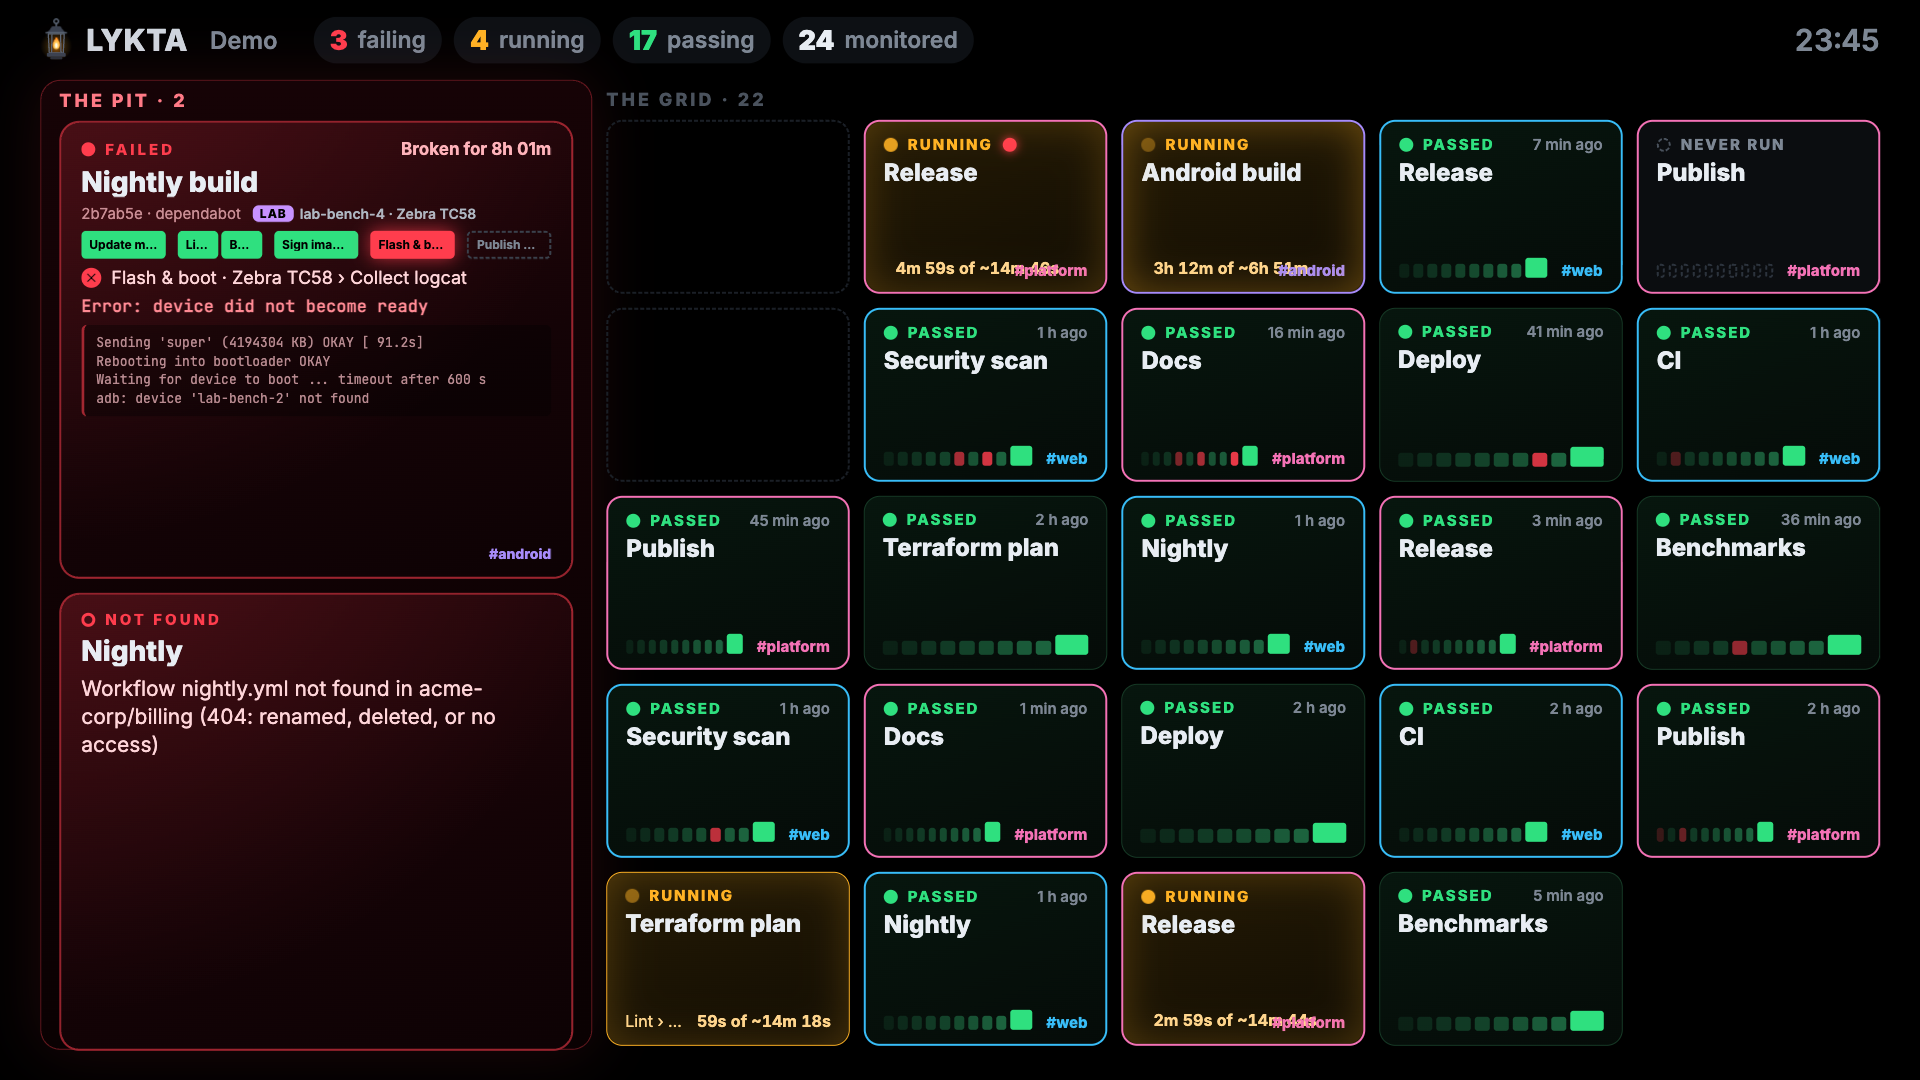
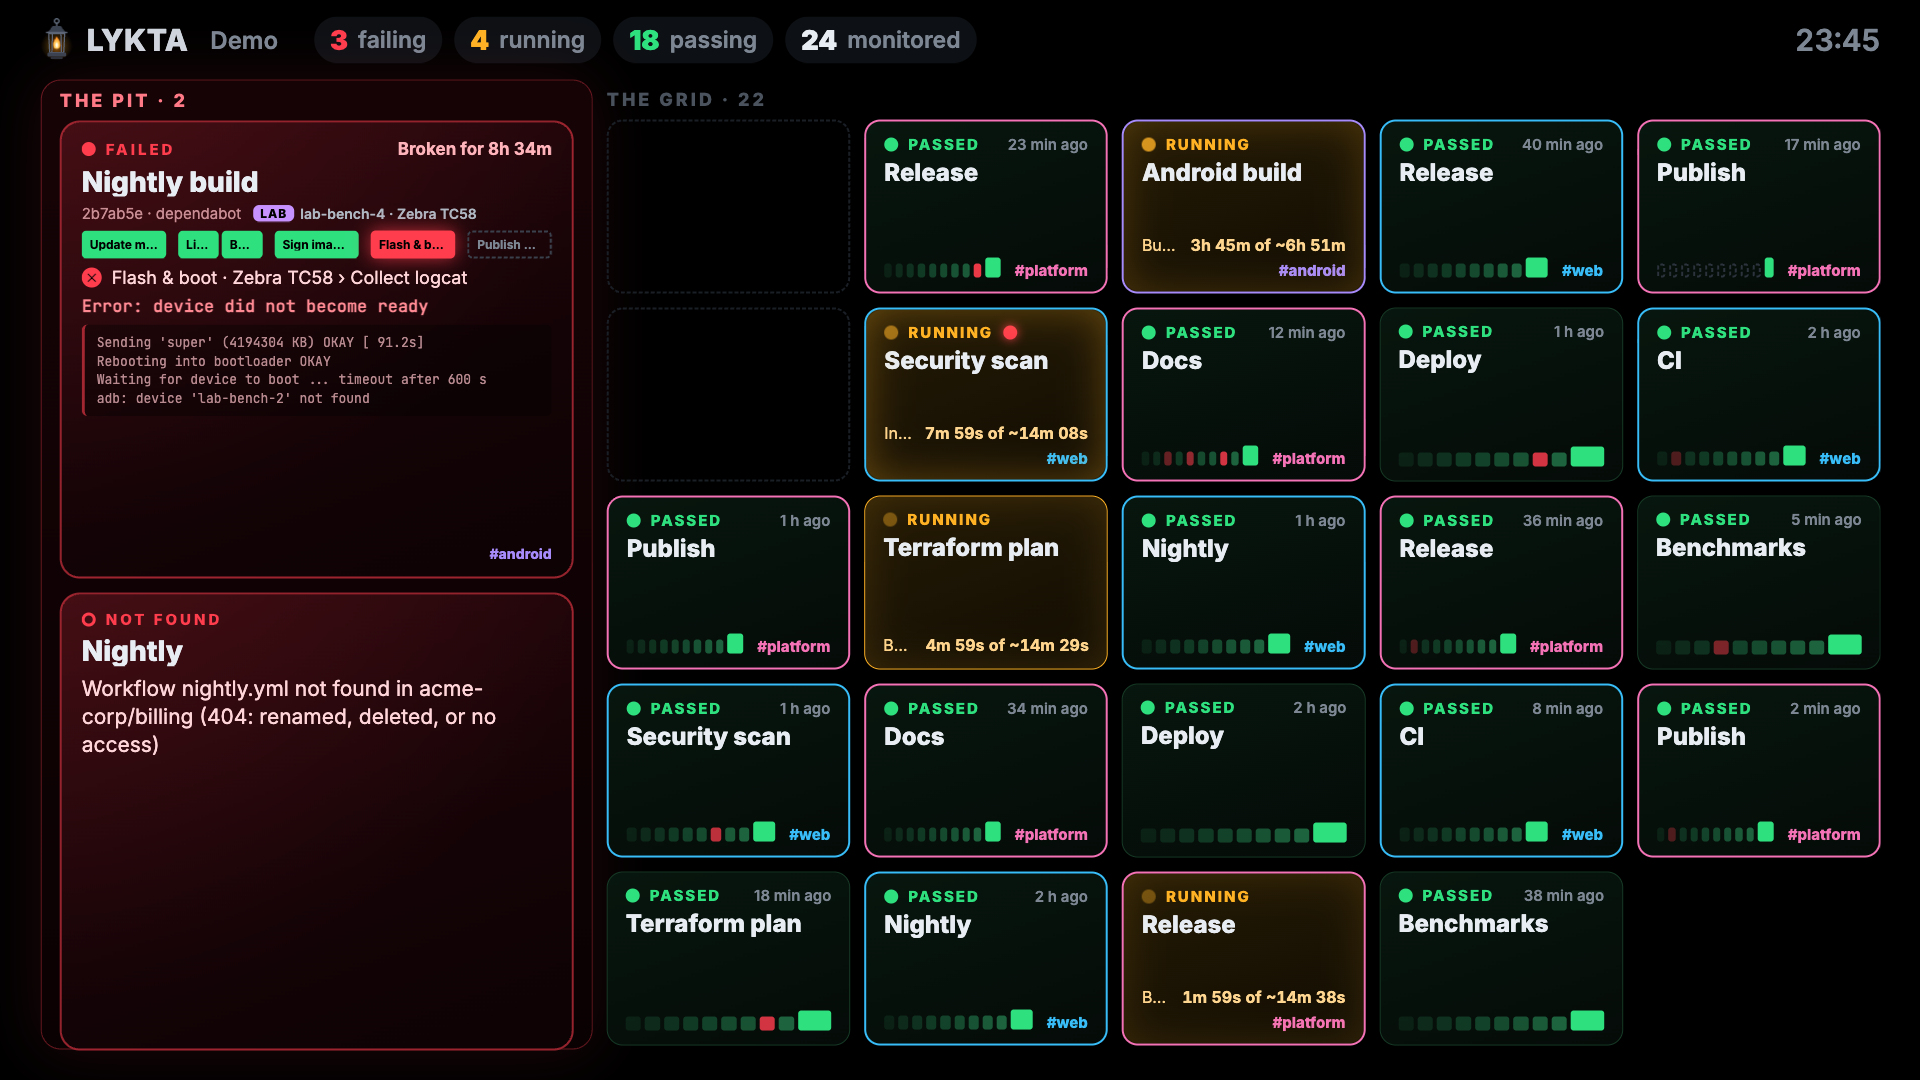
Fix: running tiles' progress bar shrank to nothing

diff --git a/src/web/styles.css b/src/web/styles.css
@@ -1952,3 +1952,7 @@ body {
 .tile.running .foot > .tags {
   align-self: flex-end;
 }
+/* the progress bar keeps its height (with overflow hidden it could shrink to nothing) */
+.tile .tbar {
+  flex: none;
+}
